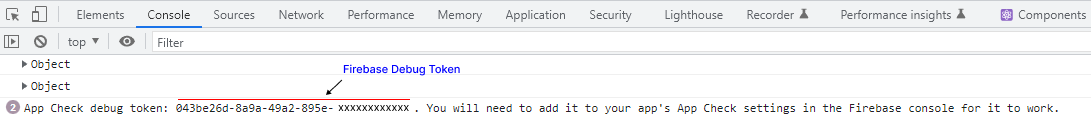
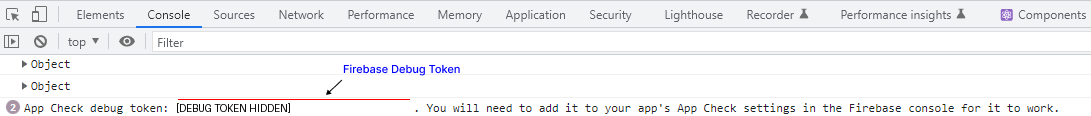
Illustrate Enterprise setup with sanitized console screenshots

Changed region(s): [[0.1558, 0.8793, 0.374, 0.9828]]

diff --git a/docs/data-and-deployment/firebase/setup.md b/docs/data-and-deployment/firebase/setup.md
@@ -135,8 +135,10 @@ In addition to what is shown above, you will want to enable "Google Authenticati
 
 App Check verifies that requests to Firebase come from your app. For a new setup, use **Fraud Defense**, which includes **reCAPTCHA Enterprise**. Depending on the console, the provider may appear under either name. Firebase Authentication and App Check are separate: keep the sign-in providers configured above.
 
-:::note Version compatibility
+:::note[Version compatibility]
+
 These instructions require a reVISit version that supports `VITE_RECAPTCHA_ENTERPRISE_SITE_KEY`. Older versions use the v3 provider. Update reVISit before configuring an Enterprise key; replacing the value of `VITE_RECAPTCHAV3TOKEN` alone does not switch providers.
+
 :::
 
 #### Create an Enterprise site key
@@ -144,14 +146,24 @@ These instructions require a reVISit version that supports `VITE_RECAPTCHA_ENTER
 1. Open [Fraud Defense in Google Cloud](https://console.cloud.google.com/security/recaptcha) and select the **same project** as your Firebase app. Enable the reCAPTCHA Enterprise API if prompted.
 2. Select **Create key**, give it a recognizable display name, and choose **Web** as the application type.
 3. Add the hostnames where your study will run. For GitHub Pages, use `your-github-name.github.io`. For a custom domain such as `https://revisit.dev/study/`, use `revisit.dev`. Enter hostnames without `https://`, ports, or paths, and keep domain verification enabled.
+   ![Google Cloud key creation with Web selected and an example hostname](./img/enabling-authentication/enterprise-create-key.png)
+
 4. Leave **Will you use challenges?** disabled to create a score-based key. Leave the test-key and Web Application Firewall options disabled, then create the key.
+   ![Google Cloud additional settings with challenges, test keys, and WAF disabled](./img/enabling-authentication/enterprise-key-options.png)
+
 5. Copy the **site key**. You will use the same value in Firebase and your reVISit build. The site key is public; this setup does not require a secret key in your application.
+
+The screenshots use example values. Replace them with your own study name and hostname.
 
 Do not add `localhost` or `127.0.0.1` to the production key. Use the [debug-token setup below](#local-development-with-debug-tokens) for local development.
 
 #### Register the key with your Firebase app
 
 In **Firebase Console → Security → App Check → Apps**, select the Web app whose app ID matches `VITE_FIREBASE_CONFIG`. Choose **Fraud Defense (formerly known as reCAPTCHA Enterprise)**, paste the site key, and save. The default one-hour token lifetime and risk threshold of 0.5 are reasonable starting points.
+
+![Firebase Fraud Defense registration showing a placeholder site key, one-hour token lifetime, and risk threshold of 0.5](./img/enabling-authentication/enterprise-app-check.png)
+
+The site key shown above is a placeholder; paste the key you created in Google Cloud.
 
 If you already have a Web app, reuse it. You do not need another app for Enterprise. Its nickname is only a display name: renaming it in **Project settings → General → Your apps** does not change the app ID or require a new `VITE_FIREBASE_CONFIG` value.
 
